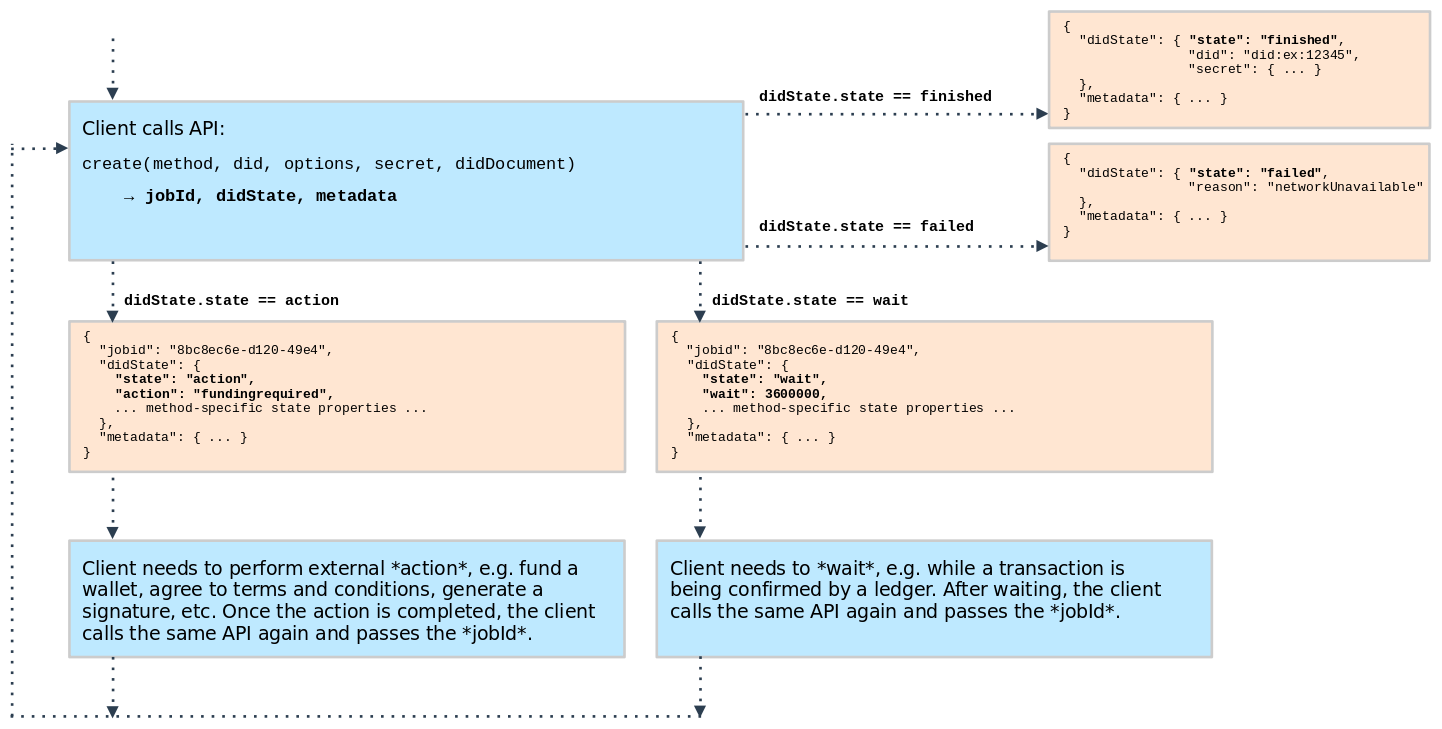
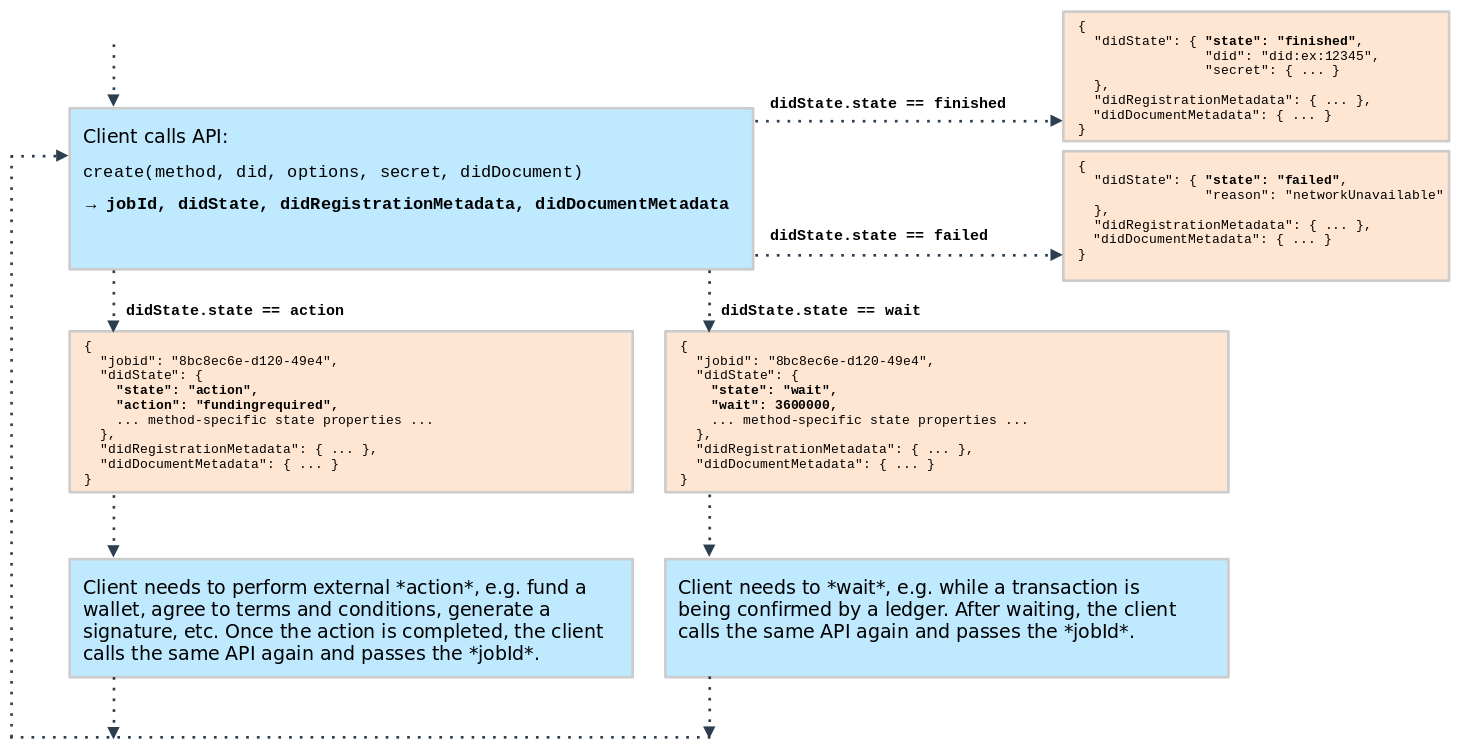
Split "metadata" into "didRegistrationMetadata" and "didDocumentMetadata".

diff --git a/index.html b/index.html
@@ -169,19 +169,19 @@ the client to perform cryptographic operations such as generating signatures.</p
 <img alt="Diagram showing Client-Managed Secret Mode" src="images/diagram-mode-client-managed-secret.png">
 <h2 id="operations"><a class="toc-anchor" href="#operations" >§</a> Operations</h2>
 <h3 id="create"><a class="toc-anchor" href="#create" >§</a> <code>create()</code></h3>
-<pre><code>create(method, did, options, secret, didDocument) -&gt; jobId, didState, metadata
+<pre><code>create(method, did, options, secret, didDocument) -&gt; jobId, didState, didRegistrationMetadata, didDocumentMetadata
 </code></pre>
 <hr>
 <p>This function creates a new DID and associated DID document, according to a known DID method, using
 various options and optionally an initial DID document.</p>
 <h3 id="update"><a class="toc-anchor" href="#update" >§</a> <code>update()</code></h3>
-<pre><code>update(did, options, secret, didDocumentOperation, didDocument) -&gt; jobId, didState, metadata
+<pre><code>update(did, options, secret, didDocumentOperation, didDocument) -&gt; jobId, didState, didRegistrationMetadata, didDocumentMetadata
 </code></pre>
 <hr>
 <p>This function updates the DID document associated with the DID, either by completely replacing it, or
 by performing an incremental update (see the <a href="#diddocumentoperation" ><code>didDocumentOperation</code> input field</a>).</p>
 <h3 id="deactivate"><a class="toc-anchor" href="#deactivate" >§</a> <code>deactivate()</code></h3>
-<pre><code>deactivate(did, options, secret) -&gt; jobId, didState, metadata
+<pre><code>deactivate(did, options, secret) -&gt; jobId, didState, didRegistrationMetadata, didDocumentMetadata
 </code></pre>
 <hr>
 <p>This function deactivates the DID.</p>
@@ -279,8 +279,8 @@ is finished, failed, or if a longer-running “job” has been created that requ
 			<span class="token punctuation">}</span><span class="token punctuation">]</span>
 		<span class="token punctuation">}</span>
 	<span class="token punctuation">}</span><span class="token punctuation">,</span>
-	<span class="token property">"registrarMetadata"</span><span class="token operator">:</span> <span class="token punctuation">{</span> ... <span class="token punctuation">}</span><span class="token punctuation">,</span>
-	<span class="token property">"methodMetadata"</span><span class="token operator">:</span> <span class="token punctuation">{</span> ... <span class="token punctuation">}</span>
+	<span class="token property">"didRegistrationMetadata"</span><span class="token operator">:</span> <span class="token punctuation">{</span> ... <span class="token punctuation">}</span><span class="token punctuation">,</span>
+	<span class="token property">"didDocumentMetadata"</span><span class="token operator">:</span> <span class="token punctuation">{</span> ... <span class="token punctuation">}</span>
 <span class="token punctuation">}</span>
 </code></pre>
 <h5 id="didstatestatefailed"><a class="toc-anchor" href="#didstatestatefailed" >§</a> <code>didState.state=failed</code></h5>
@@ -295,8 +295,8 @@ properties, to explain the reason for the failure.</p>
 		<span class="token property">"state"</span><span class="token operator">:</span> <span class="token string">"failed"</span><span class="token punctuation">,</span>
 		<span class="token property">"reason"</span><span class="token operator">:</span> <span class="token string">"networkUnavailable"</span>
 	<span class="token punctuation">}</span><span class="token punctuation">,</span>
-	<span class="token property">"registrarMetadata"</span><span class="token operator">:</span> <span class="token punctuation">{</span> ... <span class="token punctuation">}</span><span class="token punctuation">,</span>
-	<span class="token property">"methodMetadata"</span><span class="token operator">:</span> <span class="token punctuation">{</span> ... <span class="token punctuation">}</span>
+	<span class="token property">"didRegistrationMetadata"</span><span class="token operator">:</span> <span class="token punctuation">{</span> ... <span class="token punctuation">}</span><span class="token punctuation">,</span>
+	<span class="token property">"didDocumentMetadata"</span><span class="token operator">:</span> <span class="token punctuation">{</span> ... <span class="token punctuation">}</span>
 <span class="token punctuation">}</span>
 </code></pre>
 <h5 id="didstatestateaction"><a class="toc-anchor" href="#didstatestateaction" >§</a> <code>didState.state=action</code></h5>
@@ -317,8 +317,8 @@ properties, to specify the nature of the action that has to be taken.</p>
 		<span class="token property">"action"</span><span class="token operator">:</span> <span class="token string">"fundingRequired"</span><span class="token punctuation">,</span>
 		<span class="token property">"description"</span><span class="token operator">:</span> <span class="token string">"Please fund the address mzUC2F1XgXfTJEYUBZXdG6M8wWWvhgEknG."</span>
 	<span class="token punctuation">}</span><span class="token punctuation">,</span>
-	<span class="token property">"registrarMetadata"</span><span class="token operator">:</span> <span class="token punctuation">{</span> ... <span class="token punctuation">}</span><span class="token punctuation">,</span>
-	<span class="token property">"methodMetadata"</span><span class="token operator">:</span> <span class="token punctuation">{</span> ... <span class="token punctuation">}</span>
+	<span class="token property">"didRegistrationMetadata"</span><span class="token operator">:</span> <span class="token punctuation">{</span> ... <span class="token punctuation">}</span><span class="token punctuation">,</span>
+	<span class="token property">"didDocumentMetadata"</span><span class="token operator">:</span> <span class="token punctuation">{</span> ... <span class="token punctuation">}</span>
 <span class="token punctuation">}</span>
 </code></pre>
 <p>Example 2:</p>
@@ -343,8 +343,8 @@ properties, to specify the nature of the action that has to be taken.</p>
 		  <span class="token punctuation">}</span>
 		<span class="token punctuation">]</span>
 	<span class="token punctuation">}</span><span class="token punctuation">,</span>
-	<span class="token property">"registrarMetadata"</span><span class="token operator">:</span> <span class="token punctuation">{</span> ... <span class="token punctuation">}</span><span class="token punctuation">,</span>
-	<span class="token property">"methodMetadata"</span><span class="token operator">:</span> <span class="token punctuation">{</span> ... <span class="token punctuation">}</span>
+	<span class="token property">"didRegistrationMetadata"</span><span class="token operator">:</span> <span class="token punctuation">{</span> ... <span class="token punctuation">}</span><span class="token punctuation">,</span>
+	<span class="token property">"didDocumentMetadata"</span><span class="token operator">:</span> <span class="token punctuation">{</span> ... <span class="token punctuation">}</span>
 <span class="token punctuation">}</span>
 </code></pre>
 <h5 id="didstatestatewait"><a class="toc-anchor" href="#didstatestatewait" >§</a> <code>didState.state=wait</code></h5>
@@ -363,8 +363,8 @@ properties, to explain the reason for the failure.</p>
 		<span class="token property">"wait"</span><span class="token operator">:</span> <span class="token string">"Please wait until the transaction is complete."</span><span class="token punctuation">,</span>
 		<span class="token property">"waitTime"</span><span class="token operator">:</span> <span class="token number">3600000</span>
 	<span class="token punctuation">}</span><span class="token punctuation">,</span>
-	<span class="token property">"registrarMetadata"</span><span class="token operator">:</span> <span class="token punctuation">{</span> ... <span class="token punctuation">}</span><span class="token punctuation">,</span>
-	<span class="token property">"methodMetadata"</span><span class="token operator">:</span> <span class="token punctuation">{</span> ... <span class="token punctuation">}</span>
+	<span class="token property">"didRegistrationMetadata"</span><span class="token operator">:</span> <span class="token punctuation">{</span> ... <span class="token punctuation">}</span><span class="token punctuation">,</span>
+	<span class="token property">"didDocumentMetadata"</span><span class="token operator">:</span> <span class="token punctuation">{</span> ... <span class="token punctuation">}</span>
 <span class="token punctuation">}</span>
 </code></pre>
 <h4 id="didstatedid"><a class="toc-anchor" href="#didstatedid" >§</a> <code>didState.did</code></h4>
@@ -381,21 +381,22 @@ be null, and its value MUST match the <a href="#did" ><code>did</code> input fie
 <h4 id="didstatediddocument"><a class="toc-anchor" href="#didstatediddocument" >§</a> <code>didState.didDocument</code></h4>
 <p>This output field contains the DID document after the DID operation has been successfully executed.</p>
 <p>This output field is OPTIONAL.</p>
-<h3 id="metadata"><a class="toc-anchor" href="#metadata" >§</a> <code>metadata</code></h3>
-<p>This output field contains various metadata about the DID operation.</p>
-<p>Possible uses for the <code>metadata</code> output field:</p>
+<h3 id="didregistrationmetadata"><a class="toc-anchor" href="#didregistrationmetadata" >§</a> <code>didRegistrationMetadata</code></h3>
+<p>This output field contains metadata about the registration process itself.</p>
+<p>Possible uses of the <code>didRegistrationMetadata</code> output field:</p>
 <ul>
-<li>operation metadata
-<ul>
-<li>duration</li>
+<li>Duration of the DID registration process.</li>
+<li>Various URLs, IP addresses or other network information that was used during the DID registration process.</li>
+<li>Current balance or other information about tokens or cryptocurrencies that were used during the DID registration process.</li>
+<li>Information about third parties that were involved in the DID registration process, such as trust anchors, onboarding services, transaction endorsers, etc.</li>
+<li>Proofs added by a DID registrar (e.g. to establish trusted registration).</li>
 </ul>
-</li>
-<li>method metadata
+<h3 id="diddocumentmetadata"><a class="toc-anchor" href="#diddocumentmetadata" >§</a> <code>didDocumentMetadata</code></h3>
+<p>This output field contains metadata about the DID’s associated DID document.</p>
+<p>Possible uses of the <code>didDocumentMetadata</code> output field:</p>
 <ul>
-<li>method-specific hash</li>
-<li>token balance</li>
-</ul>
-</li>
+<li>Hash values, smart contract addresses, blockchain heights, transaction numbers, etc.</li>
+<li>Proofs added by a DID controller (e.g. to establish control authority).</li>
 </ul>
 <h2 id="implementation-considerations"><a class="toc-anchor" href="#implementation-considerations" >§</a> Implementation Considerations</h2>
 <p>In order to implement a library or tool that supports the above interfaces for
@@ -503,7 +504,8 @@ https://uniregistrar.io/1.0/deactivate
 <li><a href="#didstatediddocument" ><code>didState.didDocument</code></a></li>
 </ul>
 </li>
-<li><a href="#metadata" ><code>metadata</code></a></li>
+<li><a href="#didregistrationmetadata" ><code>didRegistrationMetadata</code></a></li>
+<li><a href="#diddocumentmetadata" ><code>didDocumentMetadata</code></a></li>
 </ul>
 </li>
 <li><a href="#implementation-considerations" >Implementation Considerations</a></li>

diff --git a/spec/spec.md b/spec/spec.md
@@ -129,7 +129,7 @@ TODO: Discuss how the did:ion use case fits in, where the client supplies the pu
 ### `create()`
 
 ```
-create(method, did, options, secret, didDocument) -> jobId, didState, metadata
+create(method, did, options, secret, didDocument) -> jobId, didState, didRegistrationMetadata, didDocumentMetadata
 ```
 ___
 This function creates a new DID and associated DID document, according to a known DID method, using
@@ -138,7 +138,7 @@ various options and optionally an initial DID document.
 ### `update()`
 
 ```
-update(did, options, secret, didDocumentOperation, didDocument) -> jobId, didState, metadata
+update(did, options, secret, didDocumentOperation, didDocument) -> jobId, didState, didRegistrationMetadata, didDocumentMetadata
 ```
 ____
 This function updates the DID document associated with the DID, either by completely replacing it, or
@@ -147,7 +147,7 @@ by performing an incremental update (see the [`didDocumentOperation` input field
 ### `deactivate()`
 
 ```
-deactivate(did, options, secret) -> jobId, didState, metadata
+deactivate(did, options, secret) -> jobId, didState, didRegistrationMetadata, didDocumentMetadata
 ```
 ___
 This function deactivates the DID.
@@ -283,8 +283,8 @@ Example:
 			}]
 		}
 	},
-	"registrarMetadata": { ... },
-	"methodMetadata": { ... }
+	"didRegistrationMetadata": { ... },
+	"didDocumentMetadata": { ... }
 }
 ```
 
@@ -305,8 +305,8 @@ Example:
 		"state": "failed",
 		"reason": "networkUnavailable"
 	},
-	"registrarMetadata": { ... },
-	"methodMetadata": { ... }
+	"didRegistrationMetadata": { ... },
+	"didDocumentMetadata": { ... }
 }
 ```
 
@@ -333,8 +333,8 @@ Example 1:
 		"action": "fundingRequired",
 		"description": "Please fund the address mzUC2F1XgXfTJEYUBZXdG6M8wWWvhgEknG."
 	},
-	"registrarMetadata": { ... },
-	"methodMetadata": { ... }
+	"didRegistrationMetadata": { ... },
+	"didDocumentMetadata": { ... }
 }
 ```
 
@@ -363,8 +363,8 @@ TODO: This is used in Client-managed Secret Mode. Need to specify in more detail
 		  }
 		]
 	},
-	"registrarMetadata": { ... },
-	"methodMetadata": { ... }
+	"didRegistrationMetadata": { ... },
+	"didDocumentMetadata": { ... }
 }
 ```
 
@@ -388,8 +388,8 @@ Possible uses for `didState.state==wait`:
 		"wait": "Please wait until the transaction is complete.",
 		"waitTime": 3600000
 	},
-	"registrarMetadata": { ... },
-	"methodMetadata": { ... }
+	"didRegistrationMetadata": { ... },
+	"didDocumentMetadata": { ... }
 }
 ```
 
@@ -418,17 +418,26 @@ This output field contains the DID document after the DID operation has been suc
 
 This output field is OPTIONAL.
 
-### `metadata`
+### `didRegistrationMetadata`
 
-This output field contains various metadata about the DID operation.
+This output field contains metadata about the registration process itself.
 
-Possible uses for the `metadata` output field:
+Possible uses of the `didRegistrationMetadata` output field:
 
-* operation metadata
-   * duration
-* method metadata
-   * method-specific hash
-   * token balance
+* Duration of the DID registration process.
+* Various URLs, IP addresses or other network information that was used during the DID registration process.
+* Current balance or other information about tokens or cryptocurrencies that were used during the DID registration process.
+* Information about third parties that were involved in the DID registration process, such as trust anchors, onboarding services, transaction endorsers, etc.
+* Proofs added by a DID registrar (e.g. to establish trusted registration).
+
+### `didDocumentMetadata`
+
+This output field contains metadata about the DID's associated DID document.
+
+Possible uses of the `didDocumentMetadata` output field:
+
+* Hash values, smart contract addresses, blockchain heights, transaction numbers, etc.
+* Proofs added by a DID controller (e.g. to establish control authority).
 
 ## Implementation Considerations
 
